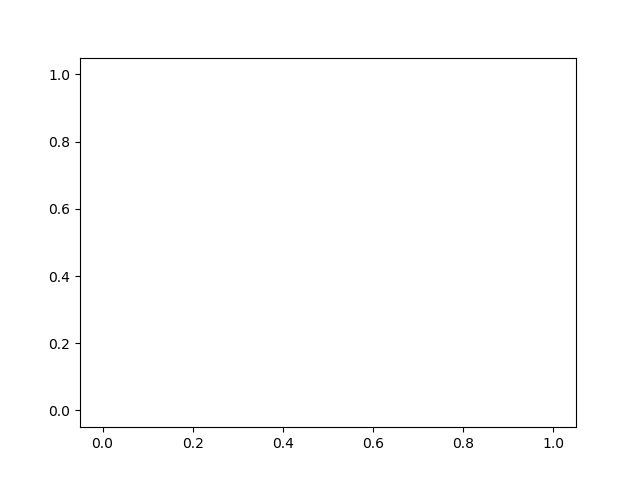
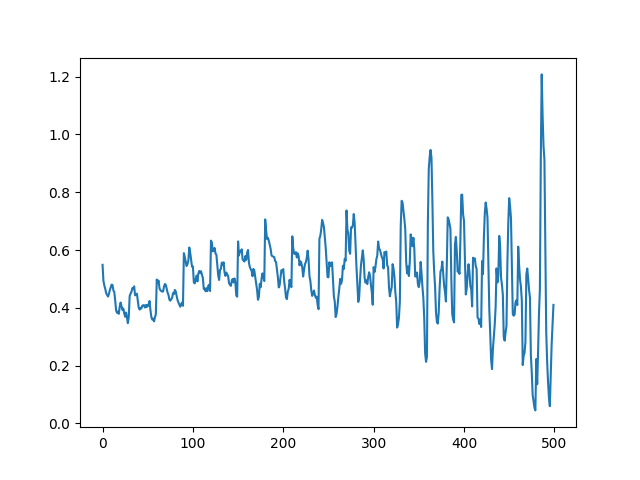
changed if n<batch_size to n>batch_size   + correction size_mismatch Loss not good

diff --git a/qlearning_reseau_v2.py b/qlearning_reseau_v2.py
@@ -9,7 +9,7 @@ from matplotlib import pyplot as plt
 MEM_SIZE = 1000
 T_MAX = 200
 HIDDEN_DIM = 128
-MAX_ITER = 1000
+MAX_ITER = 500
 BATCH_SIZE = 64
 DISCOUNT = 0.9
 LEARNING_RATE = 0.0001
@@ -40,7 +40,7 @@ target_Q_value = Perceptron(1, HIDDEN_DIM, n_a)
 target_Q_value.load_state_dict(Q_value.state_dict()) #○ copie des param
 
 optim = torch.optim.SGD(Q_value.parameters(),lr=LEARNING_RATE)
-print(Q_value)
+#print(Q_value)
 
 
 def sample_action(env, z, Q_value, epsilon):
@@ -64,7 +64,8 @@ def sample_trajectory(replay_memory, Q_value, epsilon):
         next_z, r, done = g.step(a)
         cumul += r
         replay_memory.append((z,a,r,next_z,done))
-        print("Len ", len(replay_memory))
+        z=next_z
+        #print("Len ", len(replay_memory))
         if done:
             break
     return cumul
@@ -77,24 +78,22 @@ def train():
         for it in progress_bar:
             cumul = sample_trajectory(replay_memory, Q_value, epsilon)
             n = len(replay_memory)
-            print("n", n)
 
-            if (n // BATCH_SIZE) < BATCH_SIZE:
+            if  n >BATCH_SIZE:
                 indices = list(range(n))
-                print("IF ")
                 random.shuffle(indices)
                 tot_loss = 0
                 for b in range(n // BATCH_SIZE):
-                    print("For b")
+                    #print("For b")
                     batch_z, batch_a, batch_r, batch_nxt, batch_done = zip(
                             *(replay_memory[i] for i in indices[b * BATCH_SIZE:(b+1) * BATCH_SIZE]))
                     # sans le zip, on a une liste de tuples (s,a,r,s',done), le fait de faire zip permet
                     #d'avoir une liste de s, une liste de a, une liste de s', une liste de done...
                     # le * permet d'exploser les listes initiales pour que le zip fonctionne7
-                    batch_z = torch.tensor(batch_z).float()
+                    batch_z = torch.tensor(batch_z).float().unsqueeze(1)
                     batch_a = torch.tensor(batch_a).unsqueeze(1)
-                    batch_r = torch.tensor(batch_r).unsqueeze(1)
-                    batch_nxt = torch.tensor(batch_nxt).float()
+                    batch_r = torch.tensor(batch_r).unsqueeze(1).float()
+                    batch_nxt = torch.tensor(batch_nxt).unsqueeze(1).float()
                     batch_done = torch.tensor(batch_done).unsqueeze(1)
                     """
                     print(batch_a)
@@ -104,17 +103,18 @@ def train():
                     """
                     batch_target = batch_r + DISCOUNT*target_Q_value(batch_nxt).max(1, keepdim=True)[0]
                     batch_target[batch_done] = 0
-                    print(batch_target)
+                    #print(batch_target)
 
                     batch_qval = Q_value(batch_z).gather(1, batch_a)
                     loss = nn.functional.mse_loss(batch_qval, batch_target.detach())
                     tot_loss += loss.item()
-                    plot_tot_loss.append(tot_loss)
-                    print("plot_tot_loss inter", plot_tot_loss)
+
+                    #print("plot_tot_loss inter", plot_tot_loss)
 
                     optim.zero_grad()
                     loss.backward()
                     optim.step()
+                plot_tot_loss.append(tot_loss / (n // BATCH_SIZE))
                 progress_bar.set_postfix(loss = tot_loss / (n // BATCH_SIZE), cumul=cumul)
 
             if it % FREEZE_PERIOD == FREEZE_PERIOD - 1:
@@ -130,6 +130,6 @@ def train():
 
 
 plot_tot_loss = train()
-print("plot_tot_loss", plot_tot_loss)
-plt.plot(plot_tot_loss)
+#print("plot_tot_loss", plot_tot_loss)
+plt.plot(range(0,MAX_ITER),plot_tot_loss)
 plt.savefig("Loss_neural_network.png")
